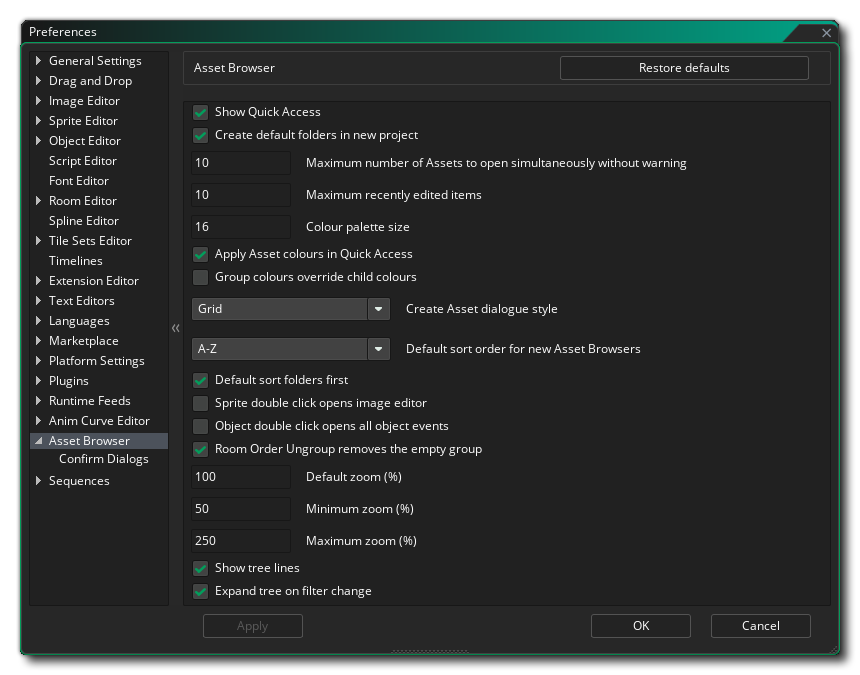
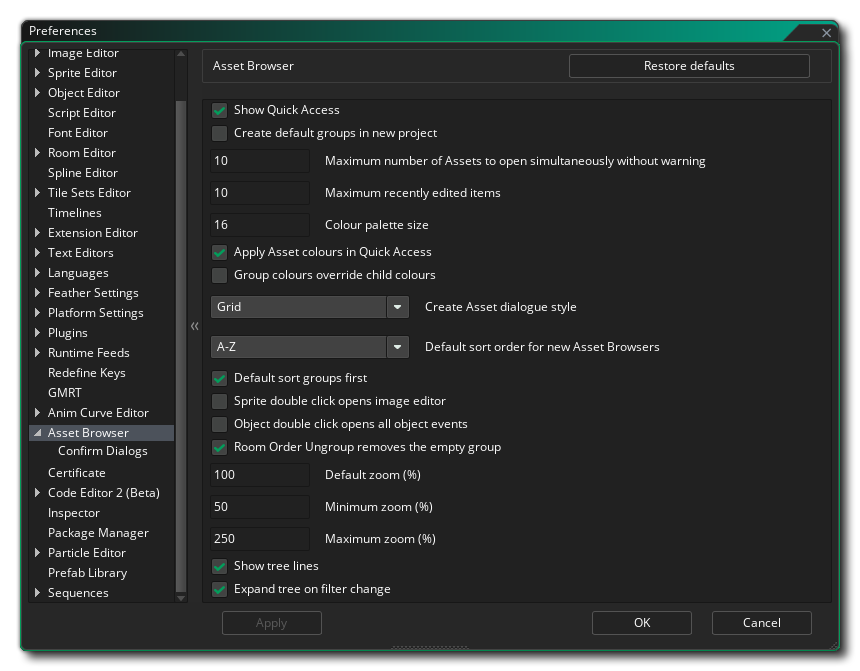
docs(general): Asset Browser Preferences "Create default groups in new projects" YoYoGames/GameMaker-Bugs#9731 YoYoGames/GameMaker-Bugs#9743
Updated screenshot and description ("not enabled by default")

diff --git a/Manual/contents/Setting_Up_And_Version_Information/IDE_Preferences/Asset_Browser_Preferences.htm b/Manual/contents/Setting_Up_And_Version_Information/IDE_Preferences/Asset_Browser_Preferences.htm
@@ -18,7 +18,7 @@
   <p><img alt="The Asset Browser Preferences" class="center" src="../../assets/Images/Setup_And_Version/Preferences/AssetBrowser_Prefs.png" />The <strong>Asset Browser Preferences</strong> are used to define certain properties for how the <a href="../../Introduction/The_Asset_Browser.htm">Asset Browser</a> and its elements function. The main options are:</p>
   <ul class="colour">
     <li><strong>Show Quick Access</strong>: When enabled, this option will show the &quot;Quick Access&quot; section at the top of the Asset Browser. This option is enabled by default.</li>
-    <li><strong>Create default folders in new project</strong>: When enabled, this option will have all new projects start with the default asset folders already created, and when disabled, only a room folder will be created with the default room required by all projects. This option is enabled by default.</li>
+    <li><strong>Create default folders in new project</strong>: When enabled, this option will have all new projects start with the default asset folders already created, and when disabled, only a room folder will be created with the default room required by all projects. This option is not enabled by default.</li>
     <li><strong>Maximum number of assets to open simultaneously without warning</strong>: You can select multiple assets for opening at a time by using <img alt="Icon Control" class="icon" height="20" src="../../assets/Images/Icons/Icon_Ctrl.png" width="55" /> / <img alt="Icon Cmd" class="icon" height="20" src="../../assets/Images/Icons/Icon_Cmd.png" width="55" /> +  <img alt="Icon LMB" class="icon" src="../../assets/Images/Icons/Icon_LMB.png" /> to select them and then right clicking <img alt="Icon RMB" class="icon" src="../../assets/Images/Icons/Icon_RMB.png" /> and choosing open all. If you have selected more than the number specified in this option, then you will be shown a warning, since having too many assets open at one time can cause issues with performance on lower end machines. The default value is 10.</li>
     <li><strong>Maximum recently edited items</strong>: This setting governs the number of assets listed in the &quot;Recent&quot; section of the Asset Browser. The default value is 10.</li>
     <li><strong>Colour Palette Size</strong>: Here you can set the number of colours available to you in the asset browser palette for asset groups. The default value is 16, with a minimum value of 16 and a maximum value of 100.</li>
@@ -71,7 +71,7 @@
         <div style="float:right">Next: <a data-xref="{title}" href="Inspector_Preferences.htm">Inspector Preferences</a></div>
       </div>
     </div>
-    <h5><span data-keyref="Copyright Notice">© Copyright YoYo Games Ltd. 2024 All Rights Reserved</span></h5>
+    <h5><span data-keyref="Copyright Notice">© Copyright YoYo Games Ltd. 2025 All Rights Reserved</span></h5>
   </div>
   <!-- KEYWORDS
 Preferences - Asset Browser
